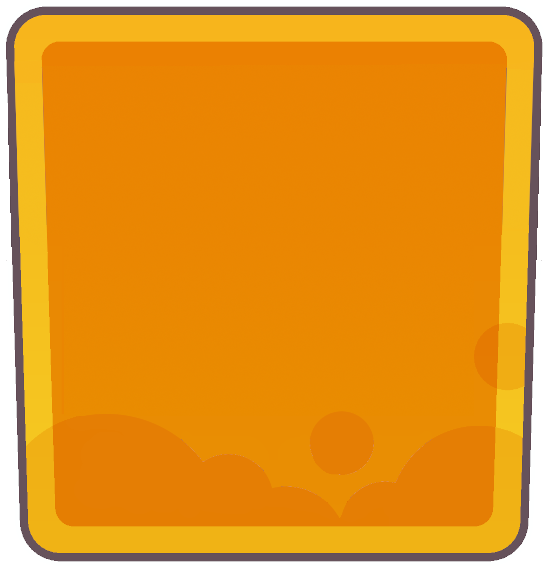
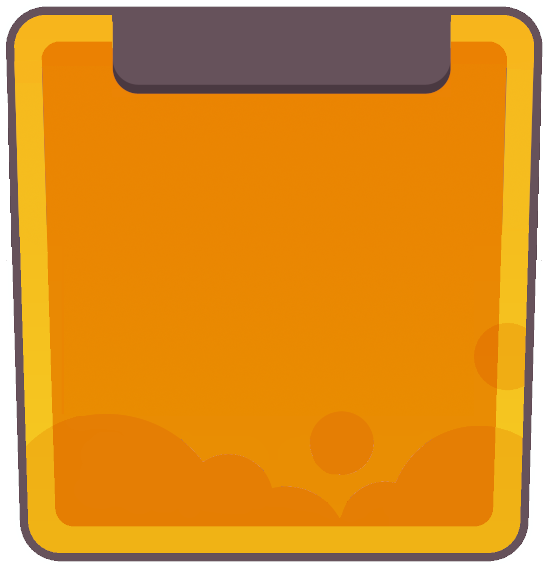
settings modal

Changed region(s): [[0.1861, 0.0, 0.8376, 0.1799]]

diff --git a/public/scripts/GameScene.js b/public/scripts/GameScene.js
@@ -51,6 +51,7 @@ class GameScene extends Phaser.Scene {
         this.load.image('panel', 'assets/bg_panel_blue.png');
         this.load.image('button', 'assets/button_blue.png');
         this.load.image('bg_settings', 'assets/bg_stripes.png');
+        this.load.image('close_cross', 'assets/cancel_blue.png');
 
         this.load.script('webfont', 'https://ajax.googleapis.com/ajax/libs/webfont/1.6.26/webfont.js');
 
@@ -122,7 +123,7 @@ class GameScene extends Phaser.Scene {
         this.redScoreText = this.add.text(1025, 18, '0 found', { fontSize: '32px', fill: SECOND_PLAYER.color });
         this.redScoreText.setShadow(3, 3, 'rgba(255,255,255,0.3)', 0);
 
-        this.add.text((WIN_WIDTH / 2) - 100, 13, 'Configuración', { fontSize: '15px', fill: '#ffffff' })
+        this.add.text((WIN_WIDTH / 2) - 100, 13, 'configuración', { fontSize: '15px', fill: '#ffffff' })
             .setOrigin(0.5);
 
         var line = 0;
@@ -260,6 +261,20 @@ class GameScene extends Phaser.Scene {
         var bg_img = add.image(bg_pos.x, bg_pos.y, 'panel');
         this.settingsGroup.add(bg_img);
 
+        var close_img = add.image(bg_pos.x + 250, bg_pos.y - 260, 'close_cross');
+        close_img.setInteractive();
+        close_img.on('clicked', function () {
+            this.closeSettings();
+        }, this);
+        close_img.on('pointerover', function (event) {
+            this.setTint(0xffbbbb);
+        });
+        close_img.on('pointerout', function (event) {
+            this.clearTint();
+        });
+
+        this.settingsGroup.add(close_img);
+
         var btn_change_scene = add.image(bg_pos.x, bg_pos.y + 20, 'button')
             .setScale(0.4)
             .setInteractive()
@@ -311,7 +326,7 @@ class GameScene extends Phaser.Scene {
             },
             active: function () {
                 const settingsGroup = game.scene.getScene('gamingPage').settingsGroup;
-                var title = add.text(bg_pos.x, bg_pos.y - 200, 'Configuración', { fontFamily: 'LuckiestGuy', fontSize: 50, color: '#59f5fb' })
+                var title = add.text(bg_pos.x + 10, bg_pos.y - 240, 'Configuración', { fontFamily: 'LuckiestGuy', fontSize: 40, color: '#ffffff' })
                     .setShadow(5, 5, "#333333", 2, false, true)
                     .setOrigin(0.5);
 
@@ -461,7 +476,9 @@ class GameScene extends Phaser.Scene {
     }
 
     closeSettings() {
+        console.log('testing ');
         this.settingsVisible = false;
+        this.settingsGroup.setVisible(false);
     }
 
     openSettings() {
